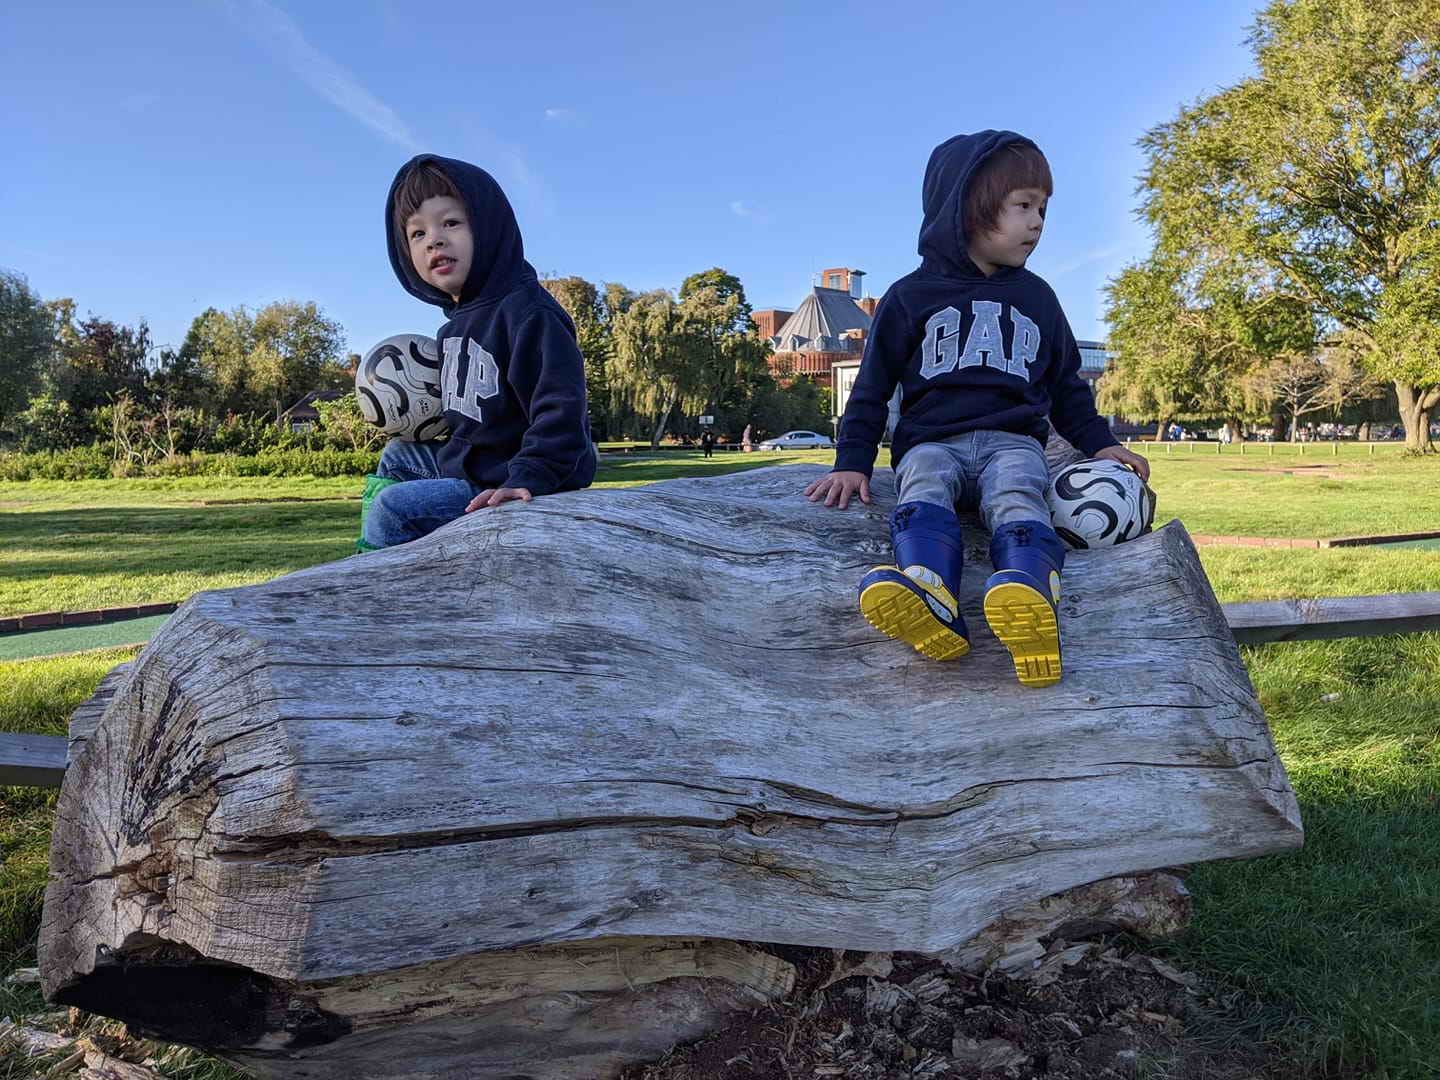
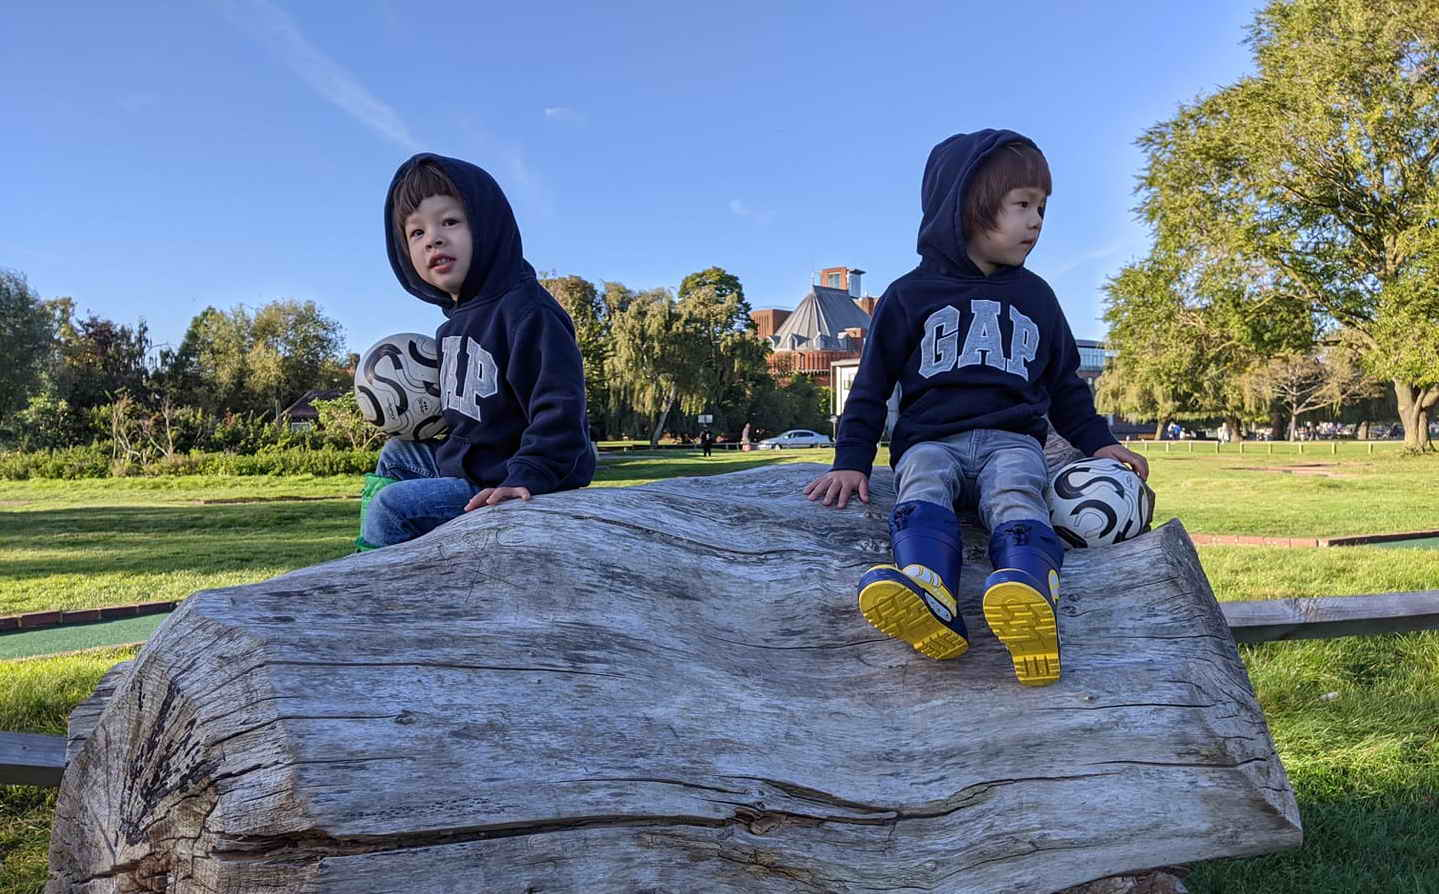
add images for mobile devices

diff --git a/assets/css/style.css b/assets/css/style.css
@@ -41,6 +41,7 @@ nav {
 
 .navbar-nav {
     font-family: 'Open Sans', sans-serif;
+    font-weight: bolder;
     color: white;
 }
 
@@ -51,6 +52,8 @@ nav {
 .navbar-brand {
     letter-spacing: 4px;
     padding-left: 10px;
+    text-transform: uppercase;
+    font-weight: bold;
 }
 
 #navbar {
@@ -72,7 +75,7 @@ nav {
 #index-hero-image{
     height: 500px;
     width: 100%;
-    background: url("../images/hero1-min.jpg") no-repeat right center fixed;
+    background: url("../images/on_the_jetty.jpg") no-repeat right center fixed;
     background-size: cover;
     animation-name: hero-zoom;
     animation-duration: 5s;
@@ -152,7 +155,7 @@ nav {
 
 .parallax-container {
     width: 100%;
-    background: url("../images/e.jpg") no-repeat left fixed;
+    background: url("../images/on_bikes.jpg") no-repeat left fixed;
     background-size: 50%;
     padding: 0;
 }
@@ -175,7 +178,7 @@ nav {
 }
 
 .resource-desc {
-    background: url("../images/e.jpg") top;
+    background: url("../images/on_bikes.jpg") top;
     background-position: center;
     background-repeat: no-repeat;
     background-size: cover;
@@ -268,7 +271,7 @@ footer {
 /* VISA PAGE */
 
 .visa-page-image {
-    background: url("../images/e.jpg") top;
+    background: url("../images/on_bikes.jpg") top;
     background-position: center;
     background-repeat: no-repeat;
     background-size: cover;
@@ -317,33 +320,12 @@ footer {
 }
 
 .language-page-image {
-    background: url("../images/hero1.jpg");
+    background: url("../images/wave_to_the_ducks.jpg");
     background-position: center;
     background-repeat: no-repeat;
     background-size: cover;
     height: 640px;
 }
-
-/* .desc-overlay {
-    font-family: 'Open Sans', sans-serif;
-    text-align: justify;
-    width: 100%;
-    height: 100%;
-    padding-top: 30px;
-    padding-left: 80px;
-    padding-right: 80px;
-    padding-bottom: 30px;
-    color: white;
-    background-color: rgba(0,0,0,0.7);
-    top: 0;
-    left: 0;
-    position: absolute;
-}
-
-.desc-overlay h2 {
-    font-family: 'Schoolbell', cursive;
-    letter-spacing: 4px;
-} */
 
 .language-item {
     height: 140px;
@@ -445,7 +427,7 @@ hr {
 #about-hero-image{
     height: 600px;
     width: 100%;
-    background: url("../images/a.jpg") no-repeat left;
+    background: url("../images/duckpond.jpg") no-repeat left;
     animation-name: hero-zoom;
     animation-duration: 5s;
     animation-fill-mode: forwards;
@@ -480,7 +462,7 @@ hr {
 
 @media screen and (min-width: 2000px) {
     #index-hero-image {
-        background: url(../images/hero1.jpg) left;
+        background: url(../images/on_the_jetty.jpg) left;
         background-size: cover;
     }
 
@@ -500,18 +482,18 @@ hr {
 
 @media screen and (max-width: 2000px) {
     #nav-container {
-        max-width: 1300px;
+        max-width: 1400px;
     }
     
     .container {
-        max-width: 1300px;
+        max-width: 1400px;
         margin-left: auto;
         margin-right: auto;
         padding: 0;
     }
 
     #footer {
-        max-width: 1300px;
+        max-width: 1400px;
         margin-left: auto;
         margin-right: auto;
     }
@@ -527,7 +509,7 @@ hr {
     }
 
     #index-hero-image {
-       background: url("../images/hero1.jpg") no-repeat top right fixed;
+       background: url("../images/on_the_jetty.jpg") no-repeat bottom right fixed;
        height: 460px;
     }
 
@@ -544,6 +526,13 @@ hr {
         padding-right: 50px;
         padding-bottom: 20px;
         text-align: left;
+    }
+
+    .parallax-container {
+        width: 100%;
+        background: url("../images/on_bikes.jpg") no-repeat center fixed;
+        /* background-size: 100%; */
+        padding: 0;
     }
 
     .visa-page-image, .language-page-image {
@@ -583,7 +572,7 @@ hr {
     }
 
     #index-hero-image {
-       background: url("../images/hero1.jpg") no-repeat top right fixed;
+       background: url("../images/on_the_jetty_mob.jpg") no-repeat center fixed;
        height: 650px;
     }
 
@@ -615,8 +604,8 @@ hr {
 
     .parallax-container {
         width: 100%;
-        background: url("../images/e.jpg") no-repeat center fixed;
-        background-size: 100%;
+        background: url("../images/on_bikes_mob.jpg") no-repeat center fixed;
+        /* background-size: 100%; */
         padding: 0;
     }
 
@@ -652,21 +641,21 @@ hr {
     #image-31, #image-32, #image-33, #image-34, #image-35, #image-36, #image-37, #image-38, #image-39 {
         display: block;
     } 
-
     
     .footer-spacer {
         margin-bottom: 40px;
     }
 
-    /* .desc-overlay {
-        padding-top: 10px;
-        padding-left: 10px;
-        padding-right: 10px;
-        padding-bottom: 10px;
-    } */
-
     .visa-page-image, .language-page-image {
         height: 100%;
+    }
+
+    .visa-page-image {
+        background: url("../images/on_bikes_mob.jpg") no-repeat center fixed;
+    }
+
+    .language-page-image {
+        background: url("../images/wave_to_the_ducks_mob.jpg") no-repeat center fixed;
     }
 
     .visas-language-overlay {
@@ -694,12 +683,12 @@ hr {
     }
 
     #gallery-hero-image {
-        background: url("../images/parallax2.jpg") no-repeat bottom fixed;
+        background: url("../images/sitting_on_log_mob.jpg") no-repeat top fixed;
     }
 
     #about-hero-image {
         height: 100%;
-        background: url("../images/parallax3.jpg") no-repeat bottom fixed;
+        background: url("../images/lying_on_the_jetty_mob.jpg") no-repeat bottom fixed;
     }
 
     #about-hero-outer {

diff --git a/gallery.html b/gallery.html
@@ -63,7 +63,6 @@
         <div id="gallery-spacer"></div>
 
         <div id="images">
-            
             <img id="image-1" src="assets/images/gallery/at_the_park_comp.jpg" alt="Playing in the park">
             <img id="image-2" src="assets/images/gallery/autumn_leaves_comp.jpg" alt="Playing with leaves">
             <img id="image-3" src="assets/images/gallery/by_the_canal_comp.jpg" alt="Walking along the canal">
@@ -83,8 +82,6 @@
             <img id="image-17" src="assets/images/gallery/the_way_to_nursery_comp.jpg" alt="Waling to nursery">
             <img id="image-18" src="assets/images/gallery/walk_in_the_woods_comp.jpg" alt="Walking through the woods">
             <img id="image-19" src="assets/images/gallery/window_shopping_comp.jpg" alt="Window shopping">
-            
-            
             <img id="image-30" src="assets/images/gallery/in_the_highlands_mob.jpg" alt="In the Highlands">
             <img id="image-31" src="assets/images/gallery/in_the_river_mob.jpg" alt="Playing in the river">
             <img id="image-32" src="assets/images/gallery/lavender_fields_mob.jpg" alt="Visit to the lavender fields">
@@ -105,33 +102,6 @@
             <img id="image-28" src="assets/images/gallery/climbing_trees_mob.jpg" alt="Climbing a tree">
             <img id="image-29" src="assets/images/gallery/digger_mob.jpg" alt="Sitting on a digger">
         </div>
-
-        <!--lightbox-gallery-->
-        <!-- <div class="container-fluid">
-            <div class="row gallery-row">
-                <div class="column gallery-column">
-                    <img src="assets/images/parallax.jpg">
-                    <img src="assets/images/parallax2.jpg">
-                    <img src="assets/images/parallax3.jpg">
-                    <img src="assets/images/hero1.jpg">
-
-                </div>
-                <div class="column gallery-column">
-                    <img src="assets/images/parallax.jpg">
-                    <img src="assets/images/parallax2.jpg">
-                    <img src="assets/images/parallax3.jpg">
-                    <img src="assets/images/hero1.jpg">
-
-                </div>
-                <div class="column gallery-column">
-                    <img src="assets/images/parallax.jpg">
-                    <img src="assets/images/parallax2.jpg">
-                    <img src="assets/images/parallax3.jpg">
-                    <img src="assets/images/hero1.jpg">
-
-                </div>
-            </div>
-        </div> -->
     </div>    
     
     <div class="footer-spacer"></div>

diff --git a/about.html b/about.html
@@ -47,7 +47,6 @@
 
         <section id="about-hero-outer">
             <div id="about-hero-image"></div>
-            <!-- <div id="about-hero-text"> -->
             <div class="hero-text">    
                 <h3>About the Bilingual Boys</h3>
                 <hr class="bb-hr">
@@ -125,19 +124,29 @@
     <script src="https://kit.fontawesome.com/e7868c6bc8.js" crossorigin="anonymous"></script>
     
     
-    <!-- HIDING NAVBAR (NEEDS CREDIT)-->
+    <!-- HIDING NAVBAR (Thanks to: w3.schools.com)-->
     <script>  
-        var lastScrollTop = 0;
-            navbar = document.getElementById("navbar");
-            window.addEventListener("scroll", function(){
-            var scrollTop = window.pageYOffset || document.documentElement.scrollTop;
-            if (scrollTop > lastScrollTop){
-                navbar.style.top="-100px";
+        // var lastScrollTop = 0;
+        //     navbar = document.getElementById("navbar");
+        //     window.addEventListener("scroll", function(){
+        //     var scrollTop = window.pageYOffset || document.documentElement.scrollTop;
+        //     if (scrollTop > lastScrollTop){
+        //         navbar.style.top="-100px";
+        //     } else {
+        //         navbar.style.top="0";
+        //     }
+        //     lastScrollTop = scrollTop;
+        // })
+        var prevScrollpos = window.pageYOffset;
+        window.onscroll = function() {
+            var currentScrollPos = window.pageYOffset;
+            if (prevScrollpos > currentScrollPos) {
+                document.getElementById("navbar").style.top = "0";
             } else {
-                navbar.style.top="0";
+                document.getElementById("navbar").style.top = "-50px";
             }
-            lastScrollTop = scrollTop;
-        })
+            prevScrollpos = currentScrollPos;
+        }
     </script>
 </body>
 </html>

diff --git a/language.html b/language.html
@@ -50,7 +50,6 @@
         <div class="row no-gutters outer">
             <div class="col-12 col-lg-6 language-page-image">
                 <div class="visas-language-overlay">
-                <!-- <div class="resource-overlay"> -->
                     <h3><i class="fas fa-comments"></i> Language Help</h3>
                     <hr class="bb-hr">
                     <p>One of the hardest things about moving to any country is learning the language. You could get by without it, but

diff --git a/visas.html b/visas.html
@@ -51,7 +51,6 @@
         <div class="row no-gutters outer">
             <div class="col-12 col-lg-6 visa-page-image">
                 <div class="visas-language-overlay">
-                <!-- <div class="resource-overlay"> -->
                     <h3><i class="fas fa-id-card"></i> Visa Help</h3>
                     <hr class="bb-hr">
                     <p>Emigrating to the UK from countries outside of Europe, such as Thailand, can be a very complex and confusing process. 
